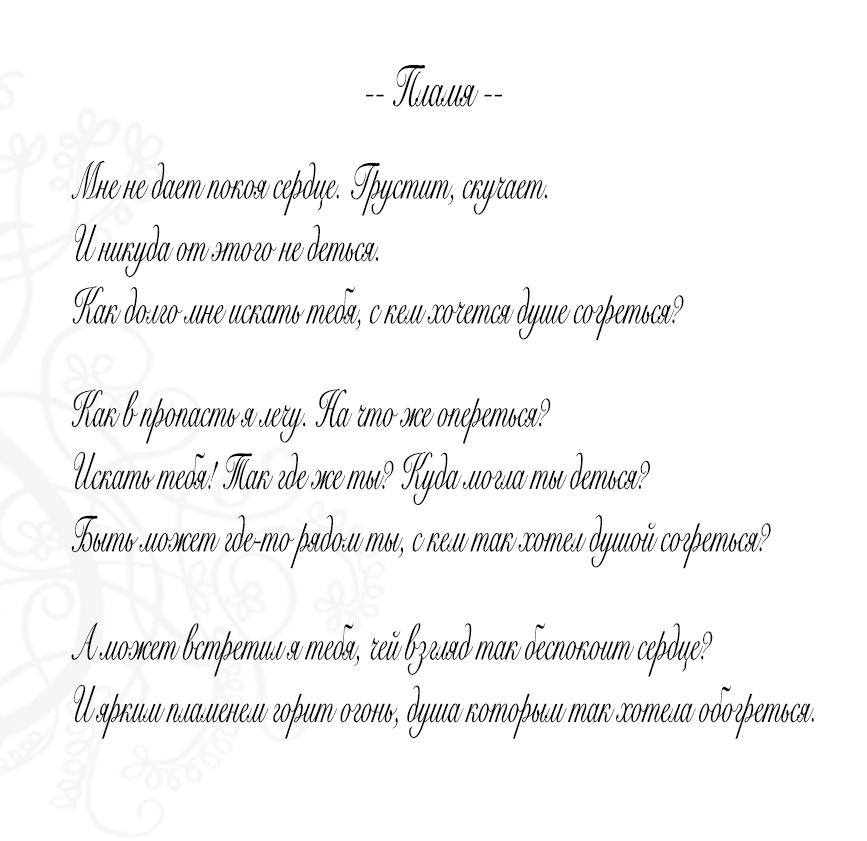
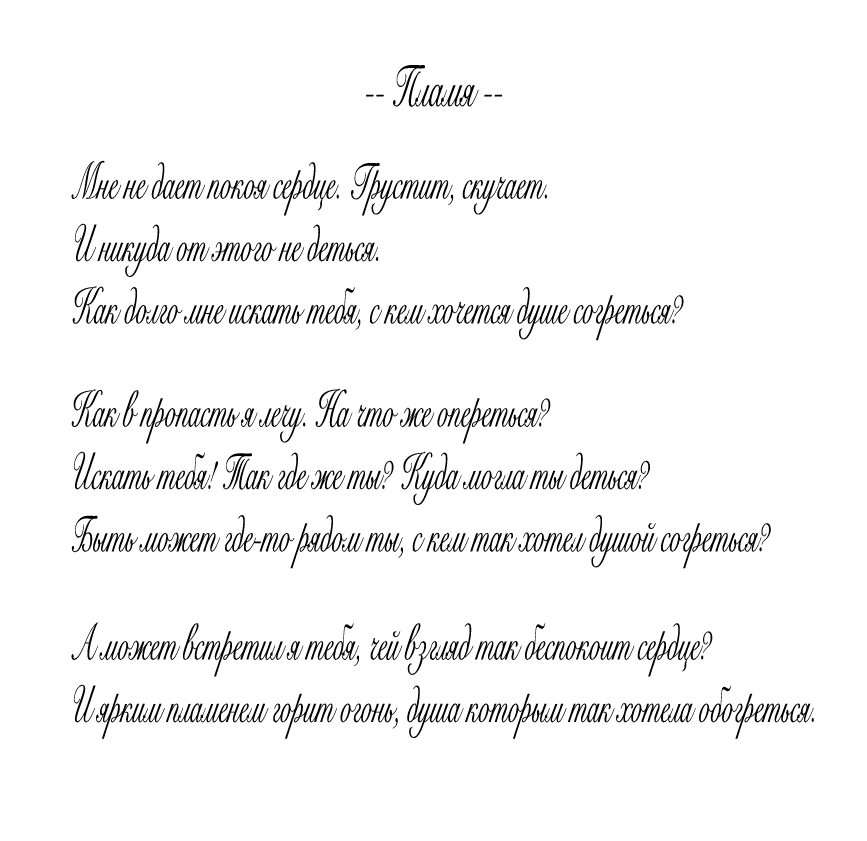
change styling

diff --git a/css/style.css b/css/style.css
@@ -1,6 +1,32 @@
-.wrapper {
-    text-align: center;
+html, body {
+    top: 0;
+    left: 0;
+    margin: 0;
+    padding: 0;
+    width: auto;
+    height: 100%;
 }
-.wrapper .signature {
+.container {
+    position: relative;
+    width: 100%;
+    height: 100%;
+}
+
+.container::before {
+    position: absolute;
+    top: 0;
+    left: 0;
+    bottom: 0;
+    right: 0;
+    background: url('../assets/bg.png') no-repeat;
+    opacity: 0.03;
+    content: "";
+    z-index: -1;
+}
+.container .content {
+    text-align: center;
+    vertical-align: middle;
+}
+.container .signature {
     font-family: Arial, Helvetica, sans-serif;
 }

diff --git a/index.html b/index.html
@@ -9,9 +9,11 @@
     <script type="text/javascript" src="./js/main.js?rnd=43913.05476476179"></script>
 </head>
 <body>
-<div class="wrapper">
-    <img src="./assets/fire.png" width="720">
-    <div class="signature"></div>
+<div class="container">
+    <div class="content">
+        <img src="./assets/fire.png?v=2" width="720">
+        <div class="signature"></div>
+    </div>
 </div>
 </body>
 </html>
